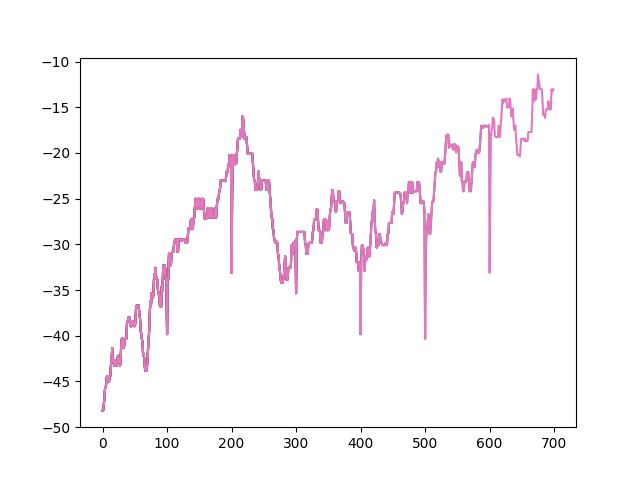
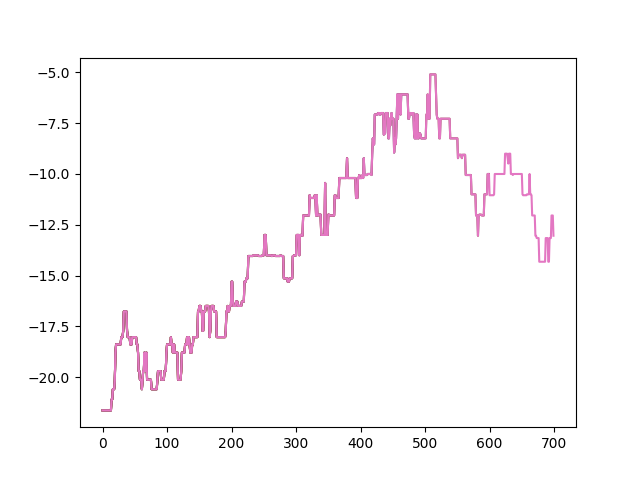
23/01

diff --git a/project_RL/Q_Learning_2D.py b/project_RL/Q_Learning_2D.py
@@ -20,7 +20,6 @@ def mask_detect():
 
         if ret :
             frame = cv2.resize(frame, None, fx = 1, fy = 1, interpolation = cv2.INTER_AREA)
-
             hsv  = cv2.cvtColor(frame, cv2.COLOR_BGR2HSV)
             mask = cv2.inRange(hsv, lower_green, upper_green)
             # edges = cv2.Canny(mask, 100, 200)
@@ -169,13 +168,13 @@ class environment:
 
 def train(episode):
 
-    s_split_num = 50
+    s_split_num = 20
     action_num = 9
     state_num  = 2
     Q_table = Qtable(action_num, state_num, s_split_num)
 
-    low  = [0, 300]
-    high = [480, 640]
+    low  = [50, 300]
+    high = [400, 600]
     target_pos = np.array([20, 520])
     reward_list = []
     envir = environment(low=low, high=high, s_split_num=s_split_num, target_pos = target_pos)
@@ -209,11 +208,16 @@ def train(episode):
               '    time:{0:.4f}'.format(end-start),
               '    reward:{0:4f}'.format(reward),
               )
-        reset_pos()
+
+        # reset_pos()
         print(reward_list)
         plt.plot(reward_list)
         file_name = './img' + str(e) + '.png'
         plt.savefig(file_name)
+
+    with open('./reward_data.npy', 'wb') as f:
+        np.save(f, reward_list)
+        np.save(f, Q_table)
 
 
 if __name__ == '__main__':
